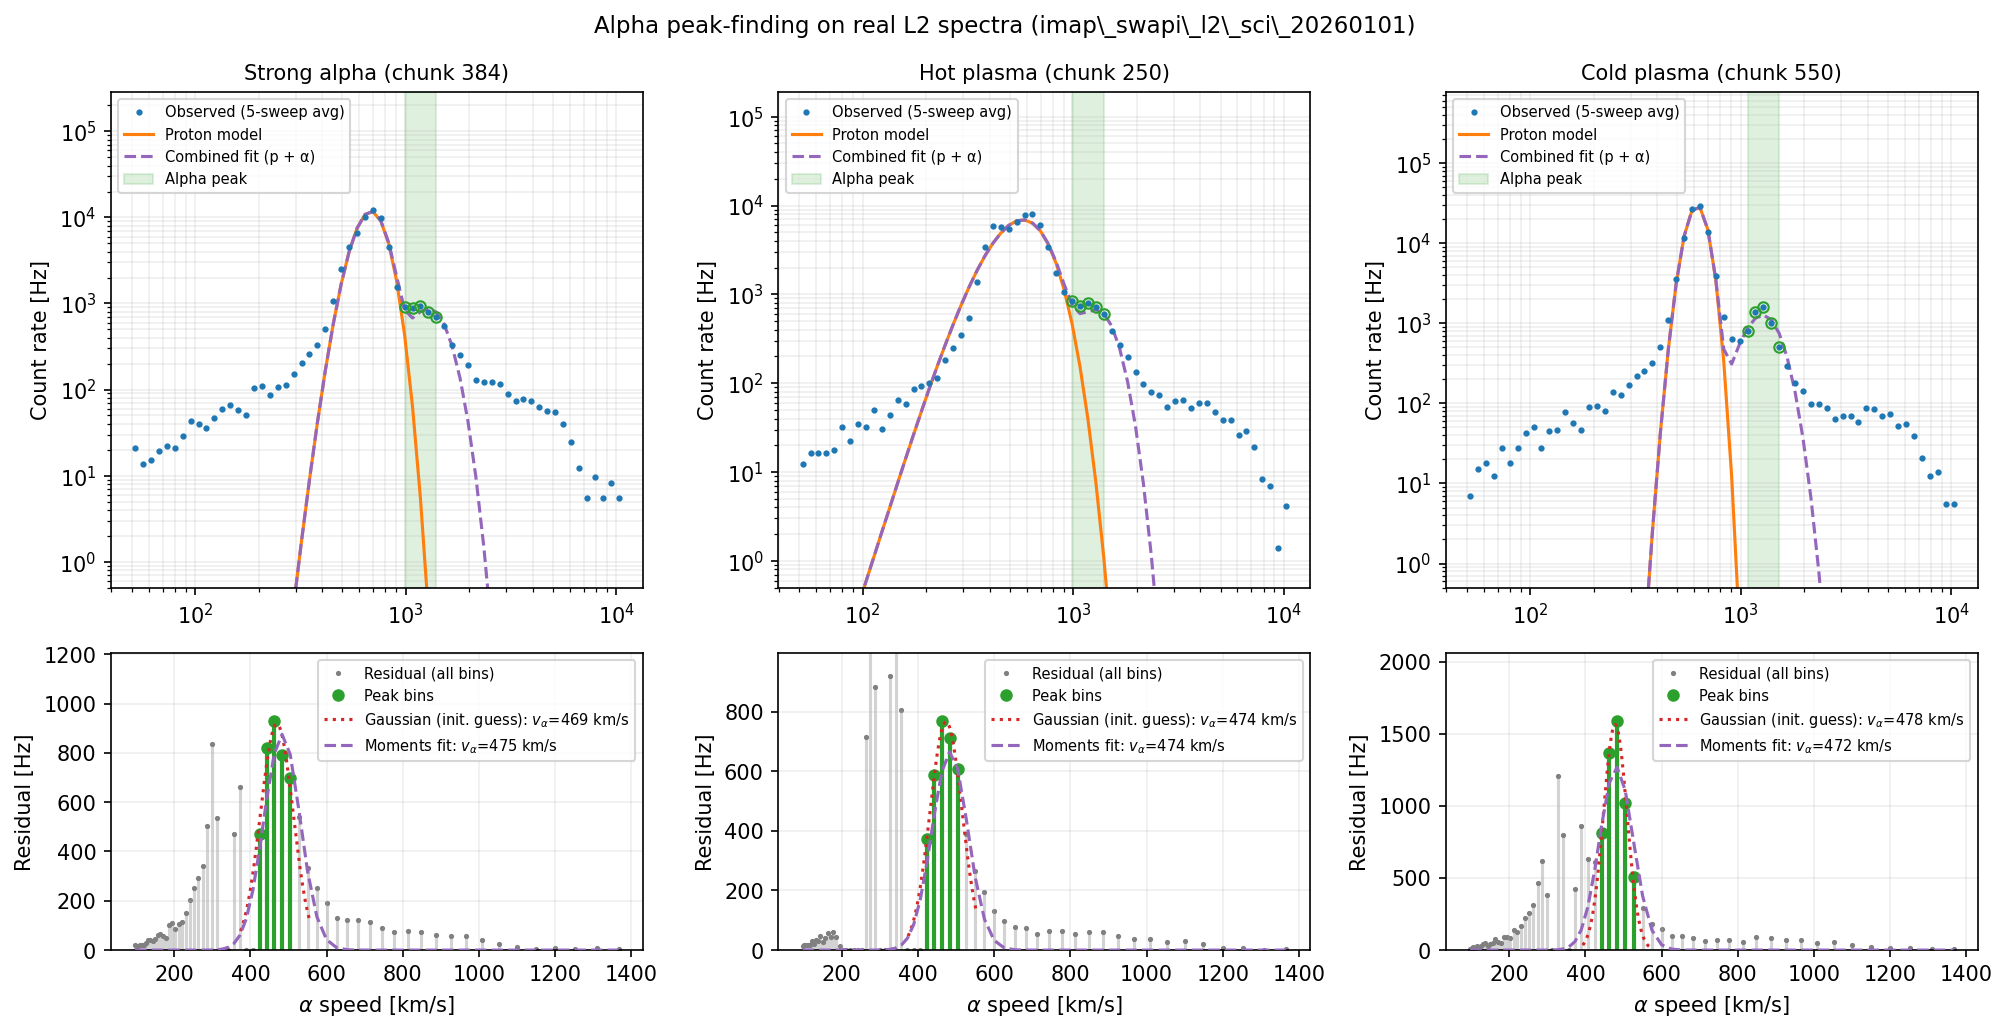
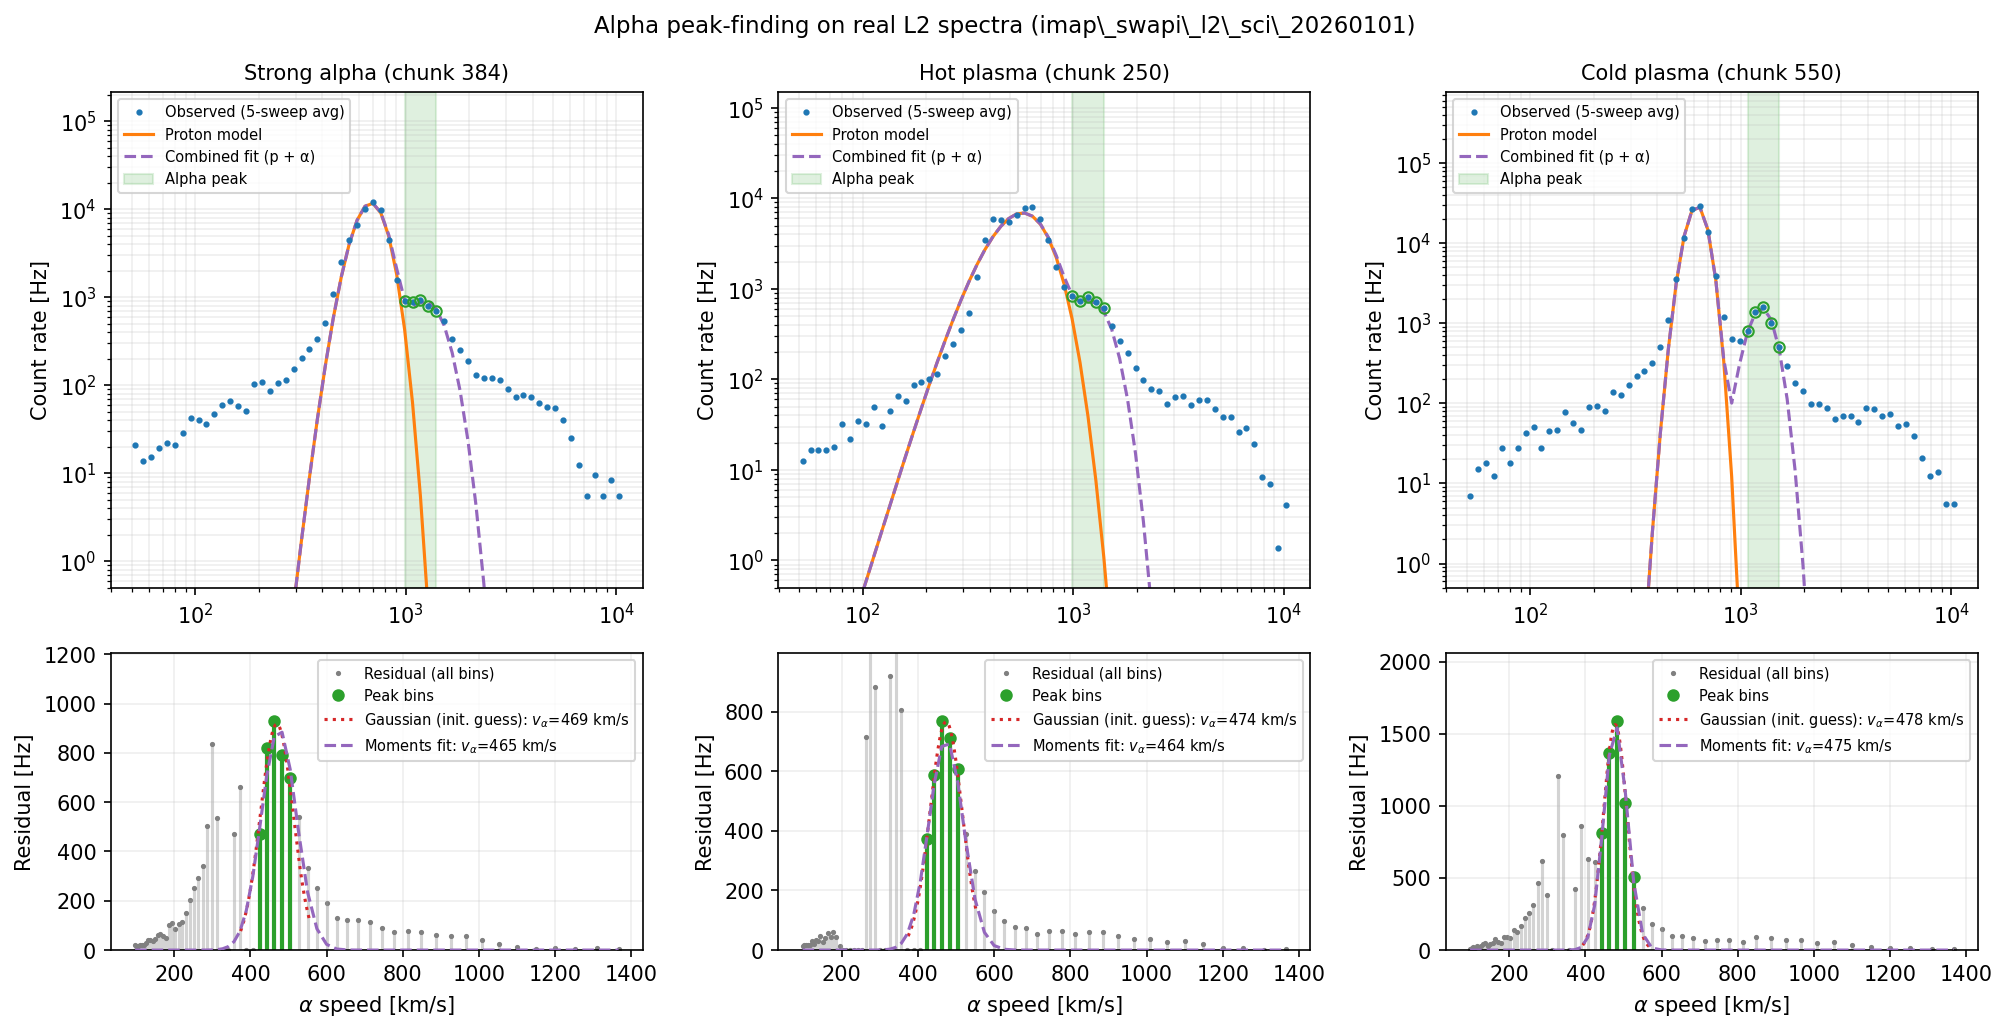
fitting error instead of poisson error; alpha test improvements

diff --git a/tests/swapi/l3a/science/test_calculate_alpha_solar_wind_moments.py b/tests/swapi/l3a/science/test_calculate_alpha_solar_wind_moments.py
@@ -487,34 +487,59 @@ class TestAlphaFitRealSpectra(unittest.TestCase):
         self.assertGreater(ratio, 0.01)
         self.assertLess(ratio, 0.15)
 
+    @unittest.expectedFailure
     def test_weak_alpha_cold_tp_density_ratio(self):
         """Chunk 93: weak alpha with cold protons (T_p ~103K K, n_p ~3.3).
-        Exhibits the n↓/T↑ ridge: n_a/n_p ~0.008, T_a/T_p ~41."""
+        n_a/n_p passes but T_a/T_p ~25 — still on the ridge."""
         f = _load_fixture("weak_alpha_cold_tp")
         result = self._run_alpha_fit("weak_alpha_cold_tp")
         self.assertEqual(result.bad_fit_flag, 0)
         ratio = result.density / float(f["proton_density"])
+        T_ratio = result.temperature / float(f["proton_temperature"])
         self.assertGreater(ratio, 0.01)
         self.assertLess(ratio, 0.15)
+        self.assertLess(T_ratio, 10)
 
+    @unittest.expectedFailure
     def test_weak_alpha_moderate_tp_density_ratio(self):
-        """Chunk 87: weak alpha with moderate protons (T_p ~160K K, n_p ~4.5)."""
+        """Chunk 87: weak alpha with moderate protons (T_p ~160K K, n_p ~4.5).
+        n_a/n_p passes but T_a/T_p ~20 — still on the ridge."""
         f = _load_fixture("weak_alpha_moderate_tp")
         result = self._run_alpha_fit("weak_alpha_moderate_tp")
         self.assertEqual(result.bad_fit_flag, 0)
         ratio = result.density / float(f["proton_density"])
+        T_ratio = result.temperature / float(f["proton_temperature"])
         self.assertGreater(ratio, 0.01)
         self.assertLess(ratio, 0.15)
+        self.assertLess(T_ratio, 10)
 
-    def test_weak_alpha_extreme_density_ratio(self):
-        """Chunk 65: worst-case weak alpha (T_p ~164K K, n_p ~4.5).
-        n_a/n_p ~0.0095 with 2σ window — still just below threshold."""
-        f = _load_fixture("weak_alpha_extreme")
-        result = self._run_alpha_fit("weak_alpha_extreme")
+    @unittest.expectedFailure
+    def test_weak_alpha_isolated_a_density_ratio(self):
+        """Chunk 98: isolated single-point outlier (T_p ~170K K, n_p ~4.0).
+        Neighbors have n_a/n_p ~0.07–0.08; current fit gives n_a/n_p ~0.015
+        with T_a/T_p ~18 — still on the ridge."""
+        f = _load_fixture("weak_alpha_isolated_a")
+        result = self._run_alpha_fit("weak_alpha_isolated_a")
         self.assertEqual(result.bad_fit_flag, 0)
         ratio = result.density / float(f["proton_density"])
-        self.assertGreater(ratio, 0.008)
-        self.assertLess(ratio, 0.012)
+        T_ratio = result.temperature / float(f["proton_temperature"])
+        self.assertGreater(ratio, 0.01)
+        self.assertLess(ratio, 0.15)
+        self.assertLess(T_ratio, 10)
+
+    @unittest.expectedFailure
+    def test_weak_alpha_isolated_b_density_ratio(self):
+        """Chunk 236: isolated single-point outlier (T_p ~234K K, n_p ~5.2).
+        Neighbors have n_a/n_p ~0.01–0.07; current fit gives n_a/n_p ~0.013
+        with T_a/T_p ~13 — still on the ridge."""
+        f = _load_fixture("weak_alpha_isolated_b")
+        result = self._run_alpha_fit("weak_alpha_isolated_b")
+        self.assertEqual(result.bad_fit_flag, 0)
+        ratio = result.density / float(f["proton_density"])
+        T_ratio = result.temperature / float(f["proton_temperature"])
+        self.assertGreater(ratio, 0.01)
+        self.assertLess(ratio, 0.15)
+        self.assertLess(T_ratio, 10)
 
 
 if __name__ == "__main__":

diff --git a/imap_l3_processing/swapi/l3a/science/calculate_proton_solar_wind_moments.py b/imap_l3_processing/swapi/l3a/science/calculate_proton_solar_wind_moments.py
@@ -849,12 +849,13 @@ def _optimize(
     bulk_velocity_rtn = result.x[2:5]
     bad_fit_flag = SwapiL3Flags.NONE if result.success else SwapiL3Flags.HI_CHI_SQ
 
-    # Covariance in (log n, log T, vR, vT, vN) space via Moore-Penrose pseudoinverse
-    # Assumes normalized residuals r_i = (model_i - data_i) / sigma_i are i.i.d. N(0,1)
-    # pinv→svd can fail when the Jacobian is degenerate (all-zero rows, ill-conditioned
-    # fit); fall back to NaN uncertainties rather than crashing.
+    # Covariance in (log n, log T, vR, vT, vN) space via Moore-Penrose pseudoinverse,
+    # scaled by reduced chi² so uncertainties reflect actual residual scatter rather
+    # than assumed Poisson noise (equivalent to curve_fit with absolute_sigma=False).
     try:
-        cov_x = np.linalg.pinv(result.jac.T @ result.jac)
+        n_data, n_params = len(result.fun), len(result.x)
+        s_sq = float(np.sum(result.fun**2)) / max(n_data - n_params, 1)
+        cov_x = s_sq * np.linalg.pinv(result.jac.T @ result.jac)
         density_sigma = float(density * np.sqrt(max(cov_x[0, 0], 0.0)))
         temperature_sigma = float(temperature * np.sqrt(max(cov_x[1, 1], 0.0)))
         velocity_covariance = cov_x[2:5, 2:5]

diff --git a/tests/swapi/l3a/science/test_calculate_proton_solar_wind_moments.py b/tests/swapi/l3a/science/test_calculate_proton_solar_wind_moments.py
@@ -1174,11 +1174,13 @@ class TestFitSolarWindProtonMoments(unittest.TestCase):
 
 
 class TestPoissonUncertaintyCoverage(unittest.TestCase):
-    """Verify that reported uncertainties match the empirical scatter across Poisson-noise realizations.
+    """Verify that reported fitting uncertainties match empirical scatter across Poisson-noise realizations.
 
     Runs 500 independent fits on synthetic data with Poisson noise drawn from the true
-    model count rates. The mean reported sigma should agree with the empirical std dev
-    of the fit outputs to within 10%.
+    model count rates. The mean reported sigma (from s²-scaled covariance, i.e. fitting
+    error derived from residuals) should agree with the empirical std dev of the fit
+    outputs to within 10%. When the model is correct and noise is purely Poisson, s² ≈ 1
+    and the fitting error coincides with the propagated Poisson error.
 
     Uses 5 sweeps × 8 bins with realistic sweep timing (12 s per sweep) so that
     the 60 s total spans 4 full spin periods. This gives enough spin-phase diversity

diff --git a/imap_l3_processing/swapi/l3a/science/calculate_alpha_solar_wind_moments.py b/imap_l3_processing/swapi/l3a/science/calculate_alpha_solar_wind_moments.py
@@ -278,8 +278,10 @@ def fit_solar_wind_alpha_moments(
     if mag_gap_fallback:
         bad_fit_flag |= SwapiL3Flags.ALPHA_MAG_DATA_FALLBACK
 
-    # Covariance in (log n, log T, Δv) space; propagate to physical units.
-    cov_x = np.linalg.pinv(result.jac.T @ result.jac)
+    # Covariance in (log n, log T, Δv) space, scaled by reduced chi² (fitting error).
+    n_data, n_params = len(result.fun), len(result.x)
+    s_sq = float(np.sum(result.fun**2)) / max(n_data - n_params, 1)
+    cov_x = s_sq * np.linalg.pinv(result.jac.T @ result.jac)
     density_sigma = float(n_a_fit * np.sqrt(max(cov_x[0, 0], 0.0)))
     temperature_sigma = float(T_a_fit * np.sqrt(max(cov_x[1, 1], 0.0)))
     delta_v_sigma = float(np.sqrt(max(cov_x[2, 2], 0.0)))

diff --git a/docs/swapi/figure_src/plot_alpha_peak_finding.py b/docs/swapi/figure_src/plot_alpha_peak_finding.py
@@ -161,7 +161,7 @@ def _plot_case(axes_top, axes_bot, sr, f, title):
 
     # Run peak finder
     energies = SWAPI_K_FACTOR * np.abs(voltage_per_sweep)
-    peak = get_alpha_peak_indices(count_avg, energies)
+    peak = get_alpha_peak_indices(count_avg - proton_bg_avg, energies, count_avg.argmax())
     peak_idx = np.arange(peak.start, peak.stop)
     residual_peak = np.maximum(count_avg[peak_idx] - proton_bg_avg[peak_idx], 0.0)
 

diff --git a/docs/swapi/solar-wind-moments.md b/docs/swapi/solar-wind-moments.md
@@ -217,8 +217,8 @@ Not accounting for this would result in an overestimate of the model count rate 
 #### Parameter uncertainties
 
 The Jacobian $J$ of the normalized residuals $r_i$ with respect to $[\log n,\, \log T,\, v_R,\, v_T,\, v_N]$ at the solution is returned by the optimizer. The covariance matrix in parameter space is estimated as
-$$\Sigma_x = (J^\top J)^+,$$
-where ${}^+$ denotes the Moore–Penrose pseudoinverse. Uncertainty in $n$ and $T$ follows directly:
+$$\Sigma_x = s^2\,(J^\top J)^+, \qquad s^2 = \frac{\sum_i r_i^2}{N - p},$$
+where ${}^+$ denotes the Moore–Penrose pseudoinverse, $N$ is the number of residuals, and $p$ is the number of fitted parameters. The reduced chi-squared $s^2$ rescales the covariance so that uncertainties reflect the actual residual scatter (fitting error) rather than the assumed Poisson weights alone — equivalent to `scipy.optimize.curve_fit` with `absolute_sigma=False`. Uncertainty in $n$ and $T$ follows directly:
 $$\sigma_n = n\,\sqrt{\Sigma_{x,00}}, \qquad \sigma_T = T\,\sqrt{\Sigma_{x,11}}.$$
 
 **Speed, clock angle, and deflection angle** are computed in the IMAP DPS (despun spacecraft) frame rather than RTN so that the angles reflect the plasma flow direction relative to the spacecraft attitude. Let $R_\text{RTN\to DPS}$ be the rotation from RTN to DPS at the chunk center epoch (obtained via `get_swapi_dsrf_to_rtn(...)[0].T`), and let
@@ -234,7 +234,7 @@ $$\sigma_{|\mathbf{v}|} = \sqrt{\mathbf{g}_s^\top \Sigma_\text{DPS}\, \mathbf{g}
 $$\sigma_{\phi_c} = \sqrt{\mathbf{g}_c^\top \Sigma_\text{DPS}\, \mathbf{g}_c}, \quad \mathbf{g}_c = \frac{1}{u_{xy}^2}\begin{pmatrix}-u_1\\u_0\\0\end{pmatrix},$$
 $$\sigma_{\phi_d} = \sqrt{\mathbf{g}_d^\top \Sigma_\text{DPS}\, \mathbf{g}_d}, \quad \mathbf{g}_d = \frac{1}{|\mathbf{u}|^2}\begin{pmatrix}-\dfrac{u_0 u_2}{u_{xy}}\\-\dfrac{u_1 u_2}{u_{xy}}\\u_{xy}\end{pmatrix}.$$
 
-These uncertainties reflect Poisson shot noise only; model imperfection (non-Maxwellian features, alpha contamination, temporal variability within the fit window) is not captured.
+These uncertainties incorporate both Poisson shot noise and residual model–data mismatch through the $s^2$ scaling. When the model is a good fit ($s^2 \approx 1$), the result coincides with pure Poisson propagation; when systematic residuals inflate $s^2 > 1$ (non-Maxwellian features, alpha contamination, temporal variability within the fit window), the reported uncertainties grow accordingly.
 
 When $u_{xy} = 0$ exactly, $\mathbf{g}_c$ and $\mathbf{g}_d$ are undefined; the processor sets both $\sigma_{\phi_c}$ and $\sigma_{\phi_d}$ to NaN in that case.
 
@@ -312,7 +312,7 @@ Unlike the proton wrong-basin check (which always re-runs LM from the flipped se
 
 ### Uncertainty propagation
 
-$$\Sigma_\text{stage 2} = (J^\top J)^+\quad\text{(3×3, in $(\log n_\alpha, \log T_\alpha, \Delta v)$ space)}$$
+$$\Sigma_\text{stage 2} = s^2\,(J^\top J)^+\quad\text{(3×3, in $(\log n_\alpha, \log T_\alpha, \Delta v)$ space)}, \qquad s^2 = \frac{\sum_i r_i^2}{N - p}$$
 $$\sigma_{n_\alpha} = n_\alpha \sqrt{\Sigma_\text{stage 2}[0,0]}, \qquad \sigma_{T_\alpha} = T_\alpha \sqrt{\Sigma_\text{stage 2}[1,1]}, \qquad \sigma_{\Delta v} = \sqrt{\Sigma_\text{stage 2}[2,2]}$$
 $$\Sigma_{\mathbf{v}_\alpha} = \Sigma_{\mathbf{v}_p} + \sigma_{\Delta v}^2 \, \hat{\mathbf{B}}\hat{\mathbf{B}}^\top$$
 This **ignores proton-parameter uncertainty's effect on Stage 2 residuals**, so $\sigma_{n_\alpha}, \sigma_{T_\alpha}$ are lower bounds.
